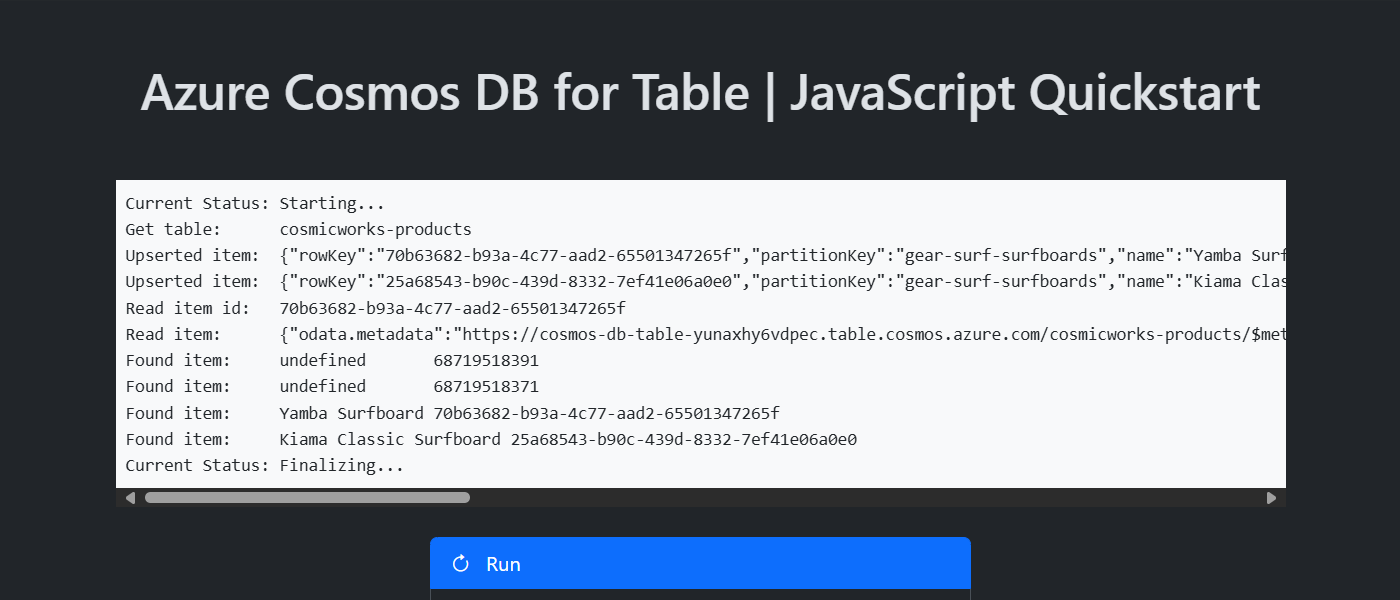
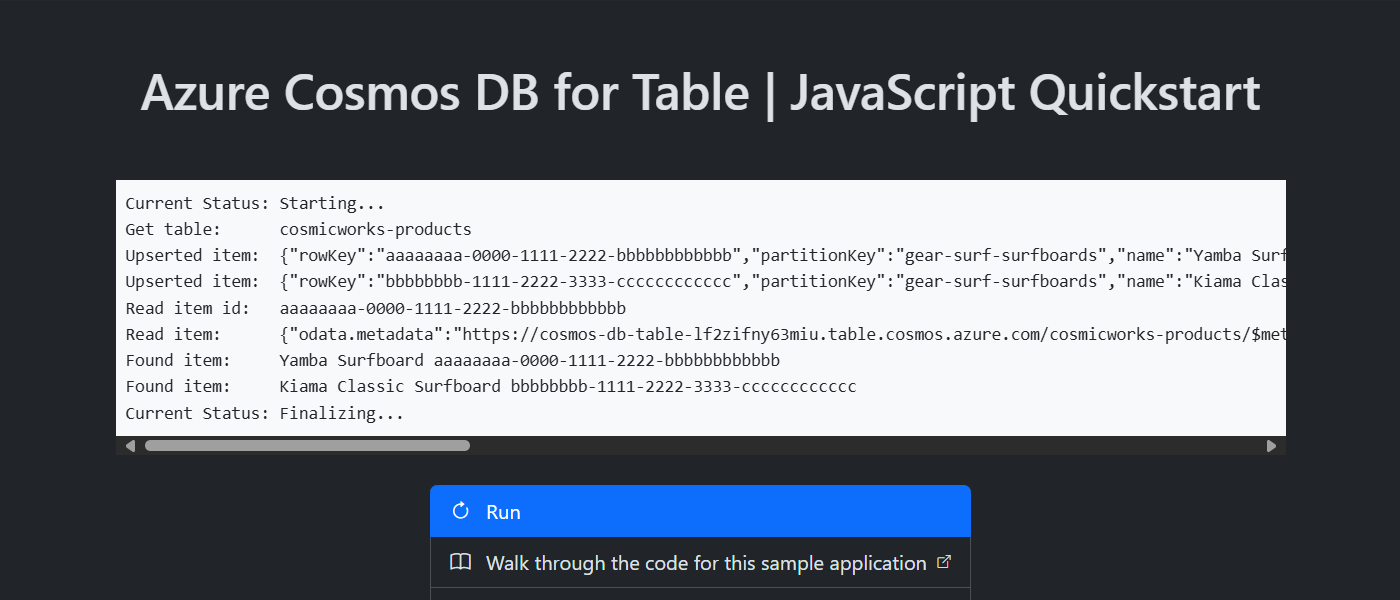
Update GUIDs

Changed region(s): [[0.0614, 0.54, 0.9214, 0.99], [0.1843, 0.42, 0.5221, 0.54]]

diff --git a/src/ts/cosmos.ts b/src/ts/cosmos.ts
@@ -51,7 +51,7 @@ export class DataClient {
     async createEntities(emit: Emit, table: TableClient) {
         {
             const entity: Product = {
-                rowKey: '70b63682-b93a-4c77-aad2-65501347265f',
+                rowKey: 'aaaaaaaa-0000-1111-2222-bbbbbbbbbbbb',
                 partitionKey: 'gear-surf-surfboards',
                 name: 'Yamba Surfboard',
                 quantity: 12,
@@ -65,7 +65,7 @@ export class DataClient {
     
         {
             const entity: Product = {
-                rowKey: '25a68543-b90c-439d-8332-7ef41e06a0e0',
+                rowKey: 'bbbbbbbb-1111-2222-3333-cccccccccccc',
                 partitionKey: 'gear-surf-surfboards',
                 name: 'Kiama Classic Surfboard',
                 quantity: 25,
@@ -79,7 +79,7 @@ export class DataClient {
     }
     
     async readEntity(emit: Emit, table: TableClient) {
-        const rowKey: string = '70b63682-b93a-4c77-aad2-65501347265f';
+        const rowKey: string = 'aaaaaaaa-0000-1111-2222-bbbbbbbbbbbb';
         const partitionKey: string = 'gear-surf-surfboards';
 
         const response: GetTableEntityResponse<TableEntityResult<Product>> = await table.getEntity<Product>(partitionKey, rowKey);

diff --git a/src/js/cosmos.js b/src/js/cosmos.js
@@ -19,7 +19,7 @@ export async function start(emit) {
 
     {
         const entity = {
-            rowKey: '70b63682-b93a-4c77-aad2-65501347265f',
+            rowKey: 'aaaaaaaa-0000-1111-2222-bbbbbbbbbbbb',
             partitionKey: 'gear-surf-surfboards',
             name: 'Yamba Surfboard',
             quantity: 12,
@@ -33,7 +33,7 @@ export async function start(emit) {
 
     {
         const entity = {
-            rowKey: '25a68543-b90c-439d-8332-7ef41e06a0e0',
+            rowKey: 'bbbbbbbb-1111-2222-3333-cccccccccccc',
             partitionKey: 'gear-surf-surfboards',
             name: 'Kiama Classic Surfboard',
             quantity: 25,
@@ -46,7 +46,7 @@ export async function start(emit) {
     }
 
     {
-        const rowKey = '70b63682-b93a-4c77-aad2-65501347265f';
+        const rowKey = 'aaaaaaaa-0000-1111-2222-bbbbbbbbbbbb';
         const partitionKey = 'gear-surf-surfboards';
 
         const entity = await table.getEntity(partitionKey, rowKey);

diff --git a/src/js/static/index.html b/src/js/static/index.html
@@ -23,7 +23,7 @@
                     <i class="bi bi-arrow-clockwise me-2"></i>
                     Run
                 </button>
-                <a href="https://learn.microsoft.com/azure/cosmos-db/table/quickstart-nodejs#code-examples"
+                <a href="https://learn.microsoft.com/azure/cosmos-db/table/quickstart-nodejs?pivots=programming-language-js#code-examples"
                     class="list-group-item list-group-item-action" target="_blank">
                     <i class="bi bi-book me-2"></i>
                     Walk through the code for this sample application

diff --git a/src/ts/static/index.html b/src/ts/static/index.html
@@ -23,7 +23,7 @@
                     <i class="bi bi-arrow-clockwise me-2"></i>
                     Run
                 </button>
-                <a href="https://learn.microsoft.com/azure/cosmos-db/table/quickstart-nodejs#code-examples"
+                <a href="https://learn.microsoft.com/azure/cosmos-db/table/quickstart-nodejs?pivots=programming-language-ts#code-examples"
                     class="list-group-item list-group-item-action" target="_blank">
                     <i class="bi bi-book me-2"></i>
                     Walk through the code for this sample application
